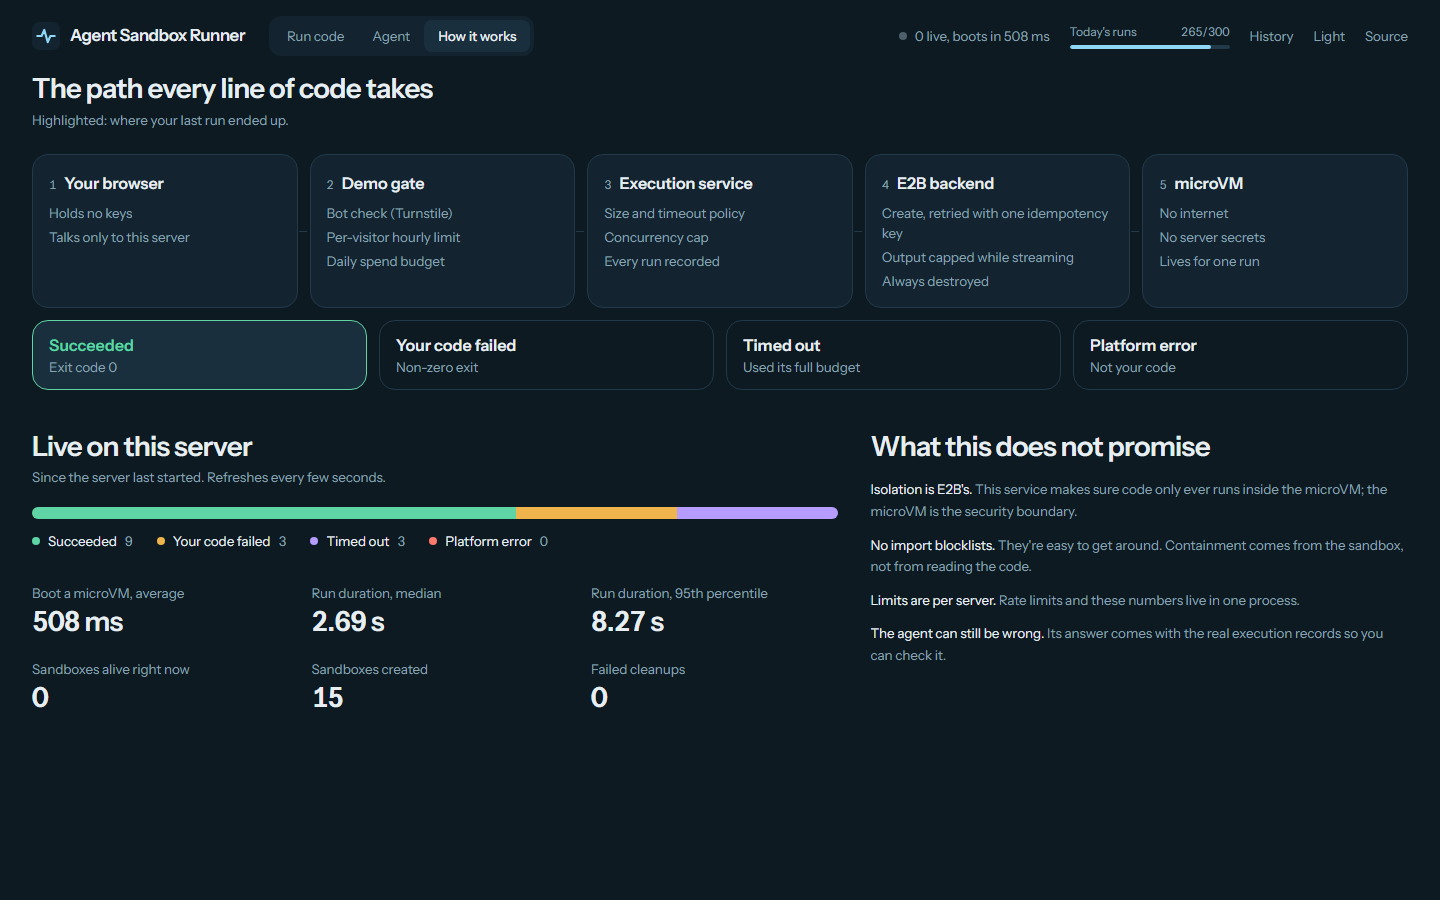
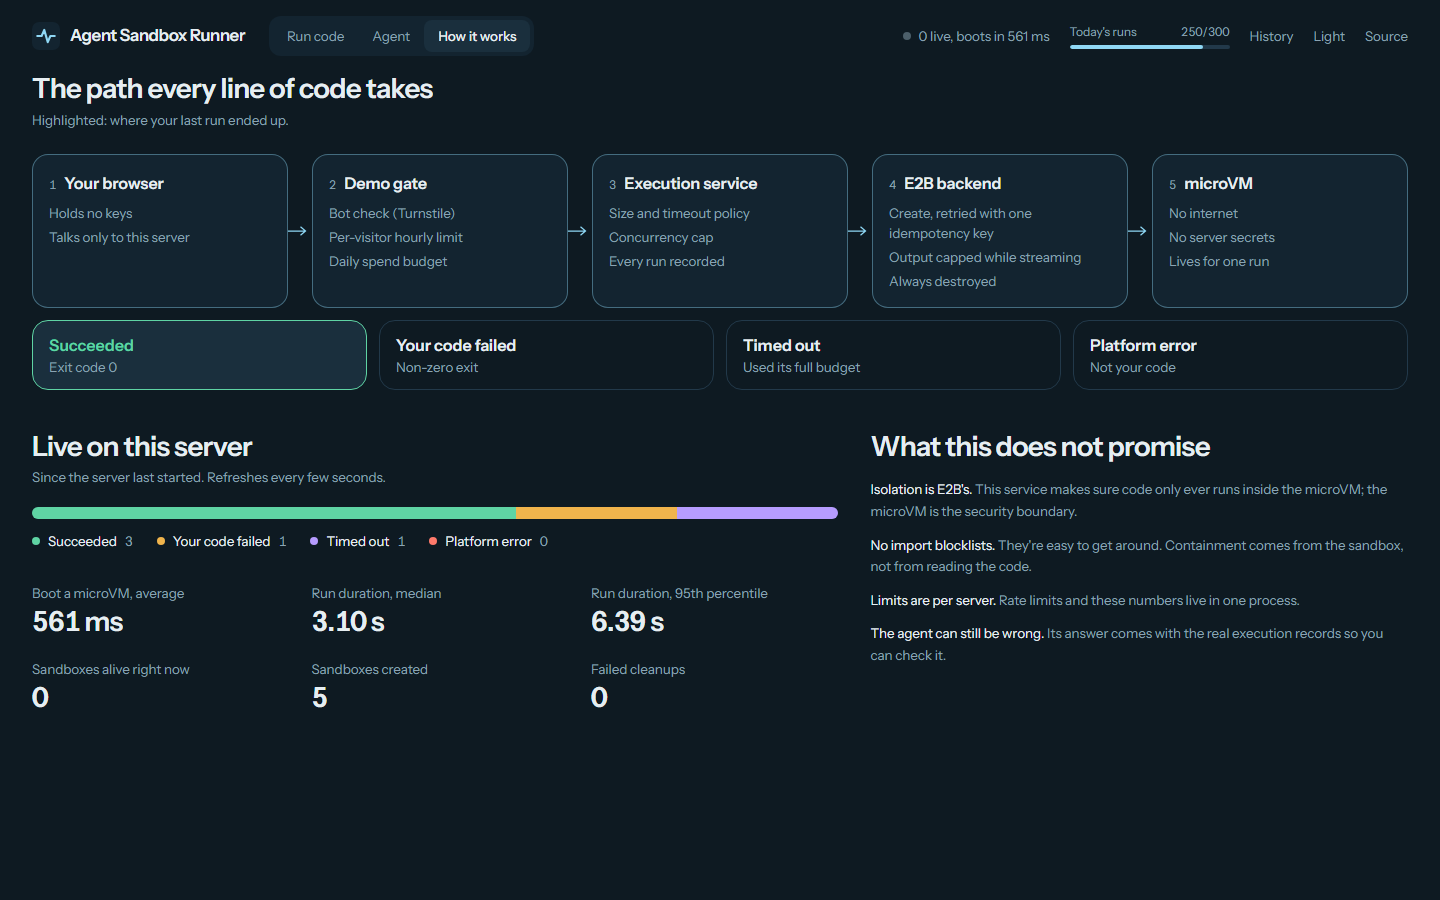
feat(ui): clearer first impression and a terminal that reads like one
- Lifeline card leads with what this is, then narrates each phase live
- Scenarios grouped (normal, broken code, try to break out) with the
  expected outcome; only the selected one shows its description
- Terminal shows the command and a closing exit/kill line
- "How it works" stages connected as a flow
- No ligatures in the code editor either

diff --git a/web/src/components/RunView.tsx b/web/src/components/RunView.tsx
@@ -9,6 +9,32 @@ import { Notice, type NoticeState } from "./Notice";
 import { Terminal } from "./Terminal";
 import { Verdict } from "./Verdict";
 
+const EXPECT_TEXT: Record<string, string> = {
+  succeeded: "exit 0",
+  failed: "fails",
+  timed_out: "times out",
+  error: "errors",
+};
+
+const NARRATION: Record<Life["phase"], string> = {
+  idle: "",
+  queued: "Waiting for a free sandbox slot",
+  creating: "Booting a fresh microVM",
+  uploading: "Uploading main.py",
+  running: "Running main.py",
+  killing: "Destroying the microVM",
+  done: "",
+};
+
+function groupExamples(examples: Example[]): [string, Example[]][] {
+  const out = new Map<string, Example[]>();
+  for (const ex of examples) {
+    const g = ex.group ?? "Examples";
+    out.set(g, [...(out.get(g) ?? []), ex]);
+  }
+  return [...out.entries()];
+}
+
 const EXPECT_DOT: Record<string, string> = {
   succeeded: "bg-ok",
   failed: "bg-user",
@@ -135,37 +161,54 @@ export function RunView({
 
   return (
     <div className="flex min-h-0 flex-1 flex-col gap-5 px-4 pb-5 sm:px-6 lg:px-8">
-      <section aria-label="Sandbox lifecycle" className="rounded-2xl border border-line bg-panel px-5 py-4">
-        <Lifeline life={life} />
+      <section aria-label="Sandbox lifecycle" className="glow rounded-2xl border border-line bg-panel px-5 pb-4 pt-5">
+        <RunHeadline life={life} bootAvgMs={status?.metrics.sandbox_create_ms_avg ?? null} />
+        <div className="mt-4">
+          <Lifeline life={life} />
+        </div>
       </section>
 
       {notice && <Notice notice={notice} onClose={() => setNotice(null)} />}
 
       <div className="grid min-h-0 flex-1 gap-5 lg:grid-cols-[14.5rem_minmax(0,1fr)_minmax(0,1fr)] lg:grid-rows-[minmax(0,1fr)]">
         <nav aria-label="Examples" className="scrollbar-thin min-h-0 min-w-0 lg:overflow-y-auto">
-          <h2 className="mb-2 px-1 text-sm font-medium text-muted">Try a scenario</h2>
-          <ul className="scrollbar-thin flex gap-2 overflow-x-auto pb-1 lg:flex-col lg:gap-0.5 lg:overflow-visible">
-            {examples.map((ex) => {
-              const on = ex.id === selected;
-              return (
-                <li key={ex.id} className="shrink-0">
-                  <button
-                    onClick={() => pick(ex)}
-                    aria-pressed={on}
-                    className={`group w-full rounded-xl px-3 py-2.5 text-left transition-colors ${
-                      on ? "bg-raised" : "hover:bg-panel"
-                    }`}
-                  >
-                    <span className="flex items-center gap-2 text-sm font-medium">
-                      <span className={`h-1.5 w-1.5 rounded-full ${EXPECT_DOT[ex.expect] ?? "bg-muted"}`} />
-                      {ex.title}
-                    </span>
-                    <span className="mt-0.5 hidden text-xs leading-snug text-muted lg:block">{ex.blurb}</span>
-                  </button>
-                </li>
-              );
-            })}
-          </ul>
+          <div className="scrollbar-thin flex gap-4 overflow-x-auto pb-1 lg:flex-col lg:gap-5 lg:overflow-visible">
+            {groupExamples(examples).map(([group, items]) => (
+              <div key={group} className="shrink-0">
+                <h2 className="mb-1.5 hidden px-3 text-xs font-medium text-muted lg:block">{group}</h2>
+                <ul className="flex gap-1 lg:flex-col lg:gap-0.5">
+                  {items.map((ex) => {
+                    const on = ex.id === selected;
+                    return (
+                      <li key={ex.id} className="shrink-0">
+                        <button
+                          onClick={() => pick(ex)}
+                          aria-pressed={on}
+                          className={`relative w-full rounded-xl px-3 py-2 text-left transition-colors ${
+                            on ? "bg-raised" : "hover:bg-panel"
+                          }`}
+                        >
+                          {on && (
+                            <span aria-hidden className="absolute inset-y-2 left-0 hidden w-0.5 rounded-full bg-live lg:block" />
+                          )}
+                          <span className="flex items-center gap-2 whitespace-nowrap text-sm">
+                            <span className={`h-1.5 w-1.5 shrink-0 rounded-full ${EXPECT_DOT[ex.expect] ?? "bg-muted"}`} />
+                            <span className={on ? "font-medium text-fg" : "text-fg/85"}>{ex.title}</span>
+                            <span className="ml-auto hidden pl-2 text-[0.7rem] text-muted lg:inline">
+                              {EXPECT_TEXT[ex.expect]}
+                            </span>
+                          </span>
+                          {on && (
+                            <span className="mt-1 hidden pl-3.5 text-xs leading-snug text-muted lg:block">{ex.blurb}</span>
+                          )}
+                        </button>
+                      </li>
+                    );
+                  })}
+                </ul>
+              </div>
+            ))}
+          </div>
         </nav>
 
         <section aria-label="Code" className="flex min-h-[18rem] min-w-0 flex-col overflow-hidden rounded-2xl border border-line bg-panel">
@@ -210,7 +253,7 @@ export function RunView({
               </span>
             </span>
           </div>
-          <Terminal life={life} maxOutputBytes={status?.limits.max_output_bytes ?? 65536} className="flex-1" />
+          <Terminal life={life} timeoutS={timeout} maxOutputBytes={status?.limits.max_output_bytes ?? 65536} className="flex-1" />
         </section>
       </div>
 
@@ -240,4 +283,39 @@ export function noticeFor(err: unknown): NoticeState {
     return { tone: "infra", text: err.message };
   }
   return { tone: "infra", text: "Something went wrong. Try again." };
+}
+
+function RunHeadline({ life, bootAvgMs }: { life: Life; bootAvgMs: number | null }) {
+  const e = life.execution;
+  if (life.phase === "idle") {
+    return (
+      <div className="flex flex-wrap items-end justify-between gap-x-6 gap-y-1">
+        <h1 className="text-xl font-semibold tracking-tight sm:text-2xl">
+          Your code gets its own microVM. It lives for one run.
+        </h1>
+        <p className="text-sm text-muted">
+          {bootAvgMs ? `Boots in about ${Math.round(bootAvgMs)} ms on E2B` : "Isolated by E2B"}
+        </p>
+      </div>
+    );
+  }
+  const text =
+    life.phase === "done"
+      ? e?.status === "succeeded"
+        ? "Finished. The microVM is gone."
+        : e?.status === "error"
+          ? "The platform failed this run. Not your code."
+          : "Run ended. The microVM is gone."
+      : NARRATION[life.phase];
+  return (
+    <div className="flex items-center gap-3" aria-live="polite">
+      <span
+        className={`h-2 w-2 shrink-0 rounded-full ${life.phase === "done" ? "bg-muted" : "animate-beat bg-live"}`}
+      />
+      <h1 className="text-xl font-semibold tracking-tight sm:text-2xl">
+        {text}
+        {life.phase !== "done" && <span className="text-muted">…</span>}
+      </h1>
+    </div>
+  );
 }

diff --git a/web/src/components/Terminal.tsx b/web/src/components/Terminal.tsx
@@ -4,10 +4,12 @@ import type { Life } from "../lib/lifecycle";
 export function Terminal({
   life,
   maxOutputBytes,
+  timeoutS,
   className = "",
 }: {
   life: Life;
   maxOutputBytes: number;
+  timeoutS?: number;
   className?: string;
 }) {
   const ref = useRef<HTMLPreElement>(null);
@@ -34,13 +36,16 @@ export function Terminal({
         aria-label="Program output"
         tabIndex={0}
       >
+        <span className="select-none text-muted">
+          <span className="text-live">sandbox</span>:~$ python main.py{"\n"}
+        </span>
         {empty ? (
           <span className="text-muted">
             {life.phase === "idle"
-              ? "Output appears here as the sandbox produces it."
+              ? "# Press Run. Output streams here as the sandbox prints it.\n"
               : running
-                ? "Waiting for output…"
-                : "The program printed nothing."}
+                ? ""
+                : "# The program printed nothing.\n"}
           </span>
         ) : (
           life.output.map((c, i) => (
@@ -49,7 +54,13 @@ export function Terminal({
             </span>
           ))
         )}
-        {running && <span className="ml-0.5 inline-block h-[1em] w-[0.5em] translate-y-[2px] animate-beat bg-live/80" />}
+        {life.phase === "done" && life.execution && (
+          <span className="select-none text-muted">
+            {"\n"}
+            {exitLine(life, timeoutS)}
+          </span>
+        )}
+        {(running || life.phase === "idle") && <span className="ml-0.5 inline-block h-[1em] w-[0.5em] translate-y-[2px] animate-beat bg-live/80" />}
       </pre>
       {truncated && (
         <div className="border-t border-line px-4 py-2 text-xs text-user">
@@ -59,4 +70,13 @@ export function Terminal({
       )}
     </div>
   );
+}
+
+function exitLine(life: Life, timeoutS?: number): string {
+  const e = life.execution;
+  if (!e) return "";
+  if (e.status === "timed_out") return `[killed at the ${timeoutS ?? e.timeout_seconds} s timeout]`;
+  if (e.status === "error") return "[platform error: the run never completed]";
+  const secs = e.duration_ms != null ? ` in ${(e.duration_ms / 1000).toFixed(2)} s` : "";
+  return `[exited with code ${e.exit_code ?? "?"}${secs}]`;
 }

diff --git a/web/src/components/InsideView.tsx b/web/src/components/InsideView.tsx
@@ -51,9 +51,14 @@ export function InsideView({ status, last }: { status: DemoStatus | null; last: 
             : "Run something and its outcome lights up here."}
         </p>
 
-        <ol className="mt-6 grid gap-3 md:grid-cols-5">
+        <ol className="mt-6 grid gap-3 md:grid-cols-5 md:gap-6">
           {STAGES.map((s, i) => (
-            <li key={s.name} className="relative rounded-2xl border border-line bg-panel p-4">
+            <li
+              key={s.name}
+              className={`relative rounded-2xl border bg-panel p-4 transition-colors ${
+                last ? "border-live/40" : "border-line"
+              }`}
+            >
               <div className="flex items-baseline gap-2">
                 <span className="text-xs tabular-nums text-muted">{i + 1}</span>
                 <h3 className="font-semibold">{s.name}</h3>
@@ -64,7 +69,15 @@ export function InsideView({ status, last }: { status: DemoStatus | null; last: 
                 ))}
               </ul>
               {i < STAGES.length - 1 && (
-                <span aria-hidden className="absolute -right-2.5 top-1/2 hidden h-px w-2 bg-line md:block" />
+                <svg
+                  aria-hidden
+                  viewBox="0 0 24 12"
+                  className={`absolute -right-[1.3rem] top-1/2 hidden h-3 w-5 -translate-y-1/2 md:block ${
+                    last ? "text-live" : "text-line"
+                  }`}
+                >
+                  <path d="M0 6h20M15 1l6 5-6 5" fill="none" stroke="currentColor" strokeWidth="1.5" />
+                </svg>
               )}
             </li>
           ))}

diff --git a/web/src/components/Lifeline.tsx b/web/src/components/Lifeline.tsx
@@ -119,7 +119,7 @@ export function Lifeline({
           <div className="flex flex-wrap items-baseline justify-between gap-x-4 gap-y-1 border-t border-line pt-2.5 text-xs text-muted">
             <span>
               {idle ? (
-                "Every run gets a fresh E2B microVM that is destroyed when it finishes."
+                "Press Run to watch it boot, run and get destroyed, drawn to scale in real milliseconds."
               ) : life.sandboxId ? (
                 <>
                   Sandbox <span className="font-mono text-fg/80">{life.sandboxId}</span>

diff --git a/web/src/styles.css b/web/src/styles.css
@@ -104,8 +104,14 @@ body {
 
 /* Code must read exactly as written: no ">=" -> "≥" ligatures. */
 .font-mono,
+.cm-editor .cm-content,
 code,
 pre {
   font-variant-ligatures: none;
   font-feature-settings: "liga" 0, "calt" 0;
+}
+
+/* The one atmospheric touch: light falls on the lifeline, the thing to watch. */
+.glow {
+  background-image: radial-gradient(120% 140% at 50% -40%, rgb(var(--live) / 0.1), transparent 60%);
 }

diff --git a/web/src/lib/api.ts b/web/src/lib/api.ts
@@ -51,6 +51,7 @@ export interface AgentRun {
 
 export interface Example {
   id: string;
+  group?: string;
   title: string;
   expect: Status;
   blurb: string;

diff --git a/app/demo/examples.py b/app/demo/examples.py
@@ -1,8 +1,11 @@
 """Curated snippets, one per interesting path through the system."""
 
+EXAMPLE_GROUPS: list[str] = ["Normal runs", "Broken code", "Try to break out"]
+
 EXAMPLES: list[dict[str, object]] = [
     {
         "id": "success",
+        "group": "Normal runs",
         "title": "Compute something",
         "expect": "succeeded",
         "blurb": "A normal run: fresh microVM, real exit code 0.",
@@ -16,6 +19,7 @@ EXAMPLES: list[dict[str, object]] = [
     },
     {
         "id": "stream",
+        "group": "Normal runs",
         "title": "Stream output live",
         "expect": "succeeded",
         "blurb": "Output streams to the terminal chunk by chunk as the sandbox produces it.",
@@ -30,6 +34,7 @@ EXAMPLES: list[dict[str, object]] = [
     },
     {
         "id": "runtime_error",
+        "group": "Broken code",
         "title": "Runtime error",
         "expect": "failed",
         "blurb": "User-code failure: classified as user_code_error, exception type parsed.",
@@ -43,6 +48,7 @@ EXAMPLES: list[dict[str, object]] = [
     },
     {
         "id": "syntax_error",
+        "group": "Broken code",
         "title": "Syntax error",
         "expect": "failed",
         "blurb": "Never runs; the interpreter rejects it inside the sandbox.",
@@ -51,6 +57,7 @@ EXAMPLES: list[dict[str, object]] = [
     },
     {
         "id": "timeout",
+        "group": "Try to break out",
         "title": "Infinite loop",
         "expect": "timed_out",
         "blurb": "Runs until the 5 s timeout. The sandbox is killed; partial output is kept.",
@@ -64,6 +71,7 @@ EXAMPLES: list[dict[str, object]] = [
     },
     {
         "id": "flood",
+        "group": "Try to break out",
         "title": "Output flood",
         "expect": "succeeded",
         "blurb": "Prints ~1 MB. The server keeps 64 KB and flags it as truncated.",
@@ -72,6 +80,7 @@ EXAMPLES: list[dict[str, object]] = [
     },
     {
         "id": "network",
+        "group": "Try to break out",
         "title": "Reach the internet",
         "expect": "timed_out",
         "blurb": "Egress is blocked. DNS hangs until the timeout: the request never leaves.",
@@ -85,6 +94,7 @@ EXAMPLES: list[dict[str, object]] = [
     },
     {
         "id": "secrets",
+        "group": "Try to break out",
         "title": "Look for secrets",
         "expect": "succeeded",
         "blurb": "The sandbox environment contains no server keys: nothing to steal.",

diff --git a/tests/unit/test_demo.py b/tests/unit/test_demo.py
@@ -224,3 +224,11 @@ async def test_serves_built_ui_and_spa_fallback(demo_client: ClientFactory, tmp_
     assert "console" in deep.text  # client-side route
     assert health.json()["status"] == "ok"
     assert api_404.status_code == 404
+
+
+def test_examples_are_grouped_for_the_console() -> None:
+    from app.demo.examples import EXAMPLE_GROUPS, EXAMPLES
+
+    assert {e["group"] for e in EXAMPLES} == set(EXAMPLE_GROUPS)
+    order = [EXAMPLE_GROUPS.index(str(e["group"])) for e in EXAMPLES]
+    assert order == sorted(order)  # listed group by group
